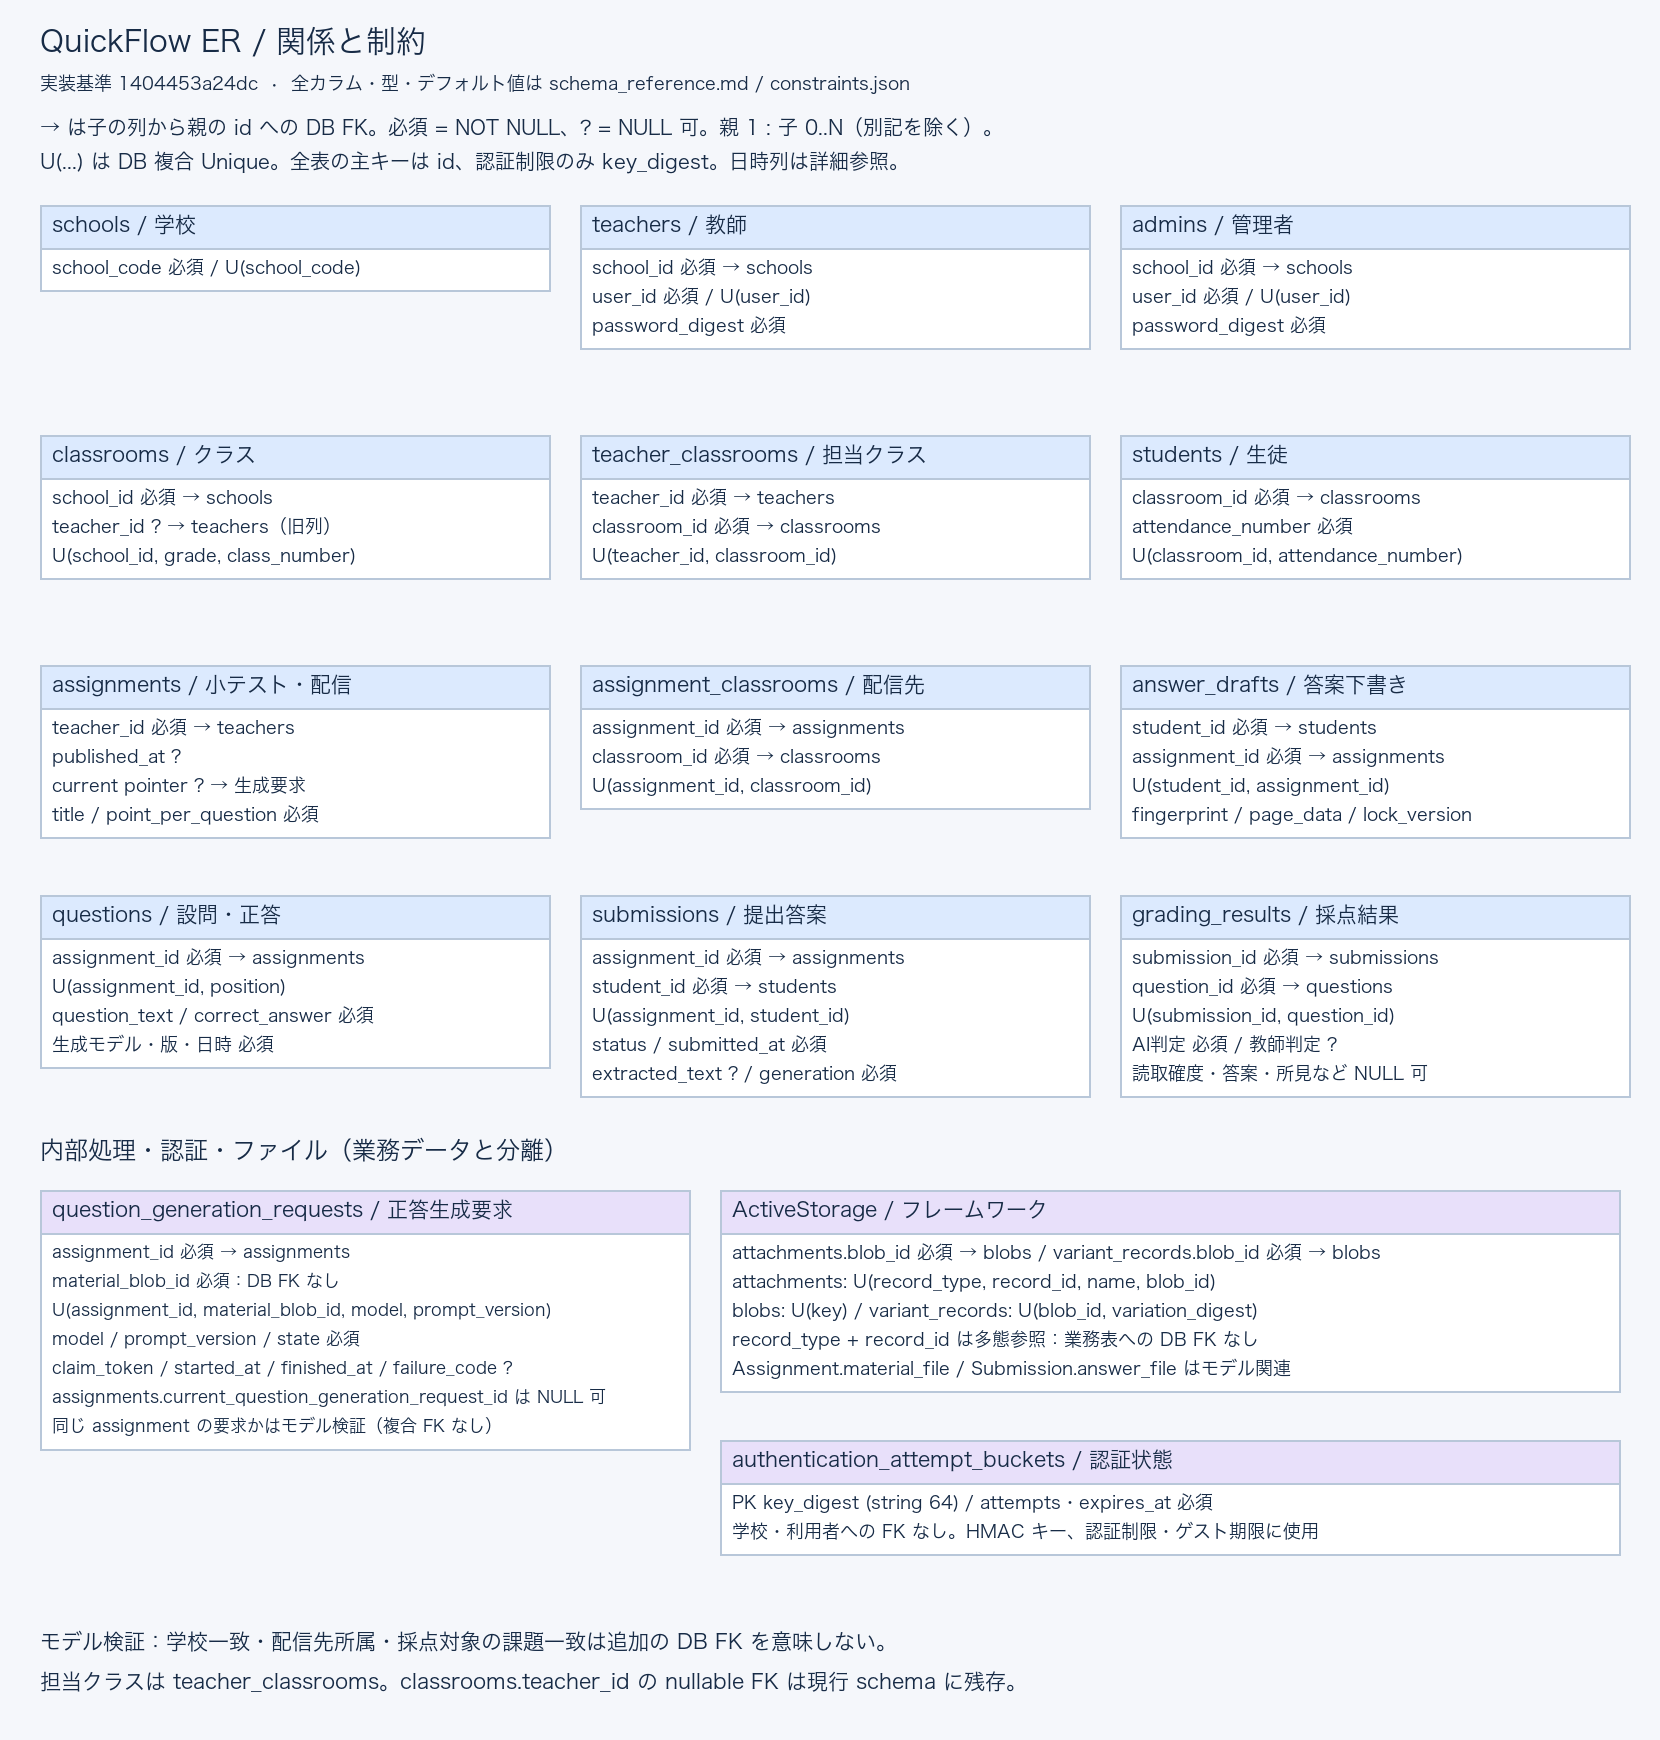
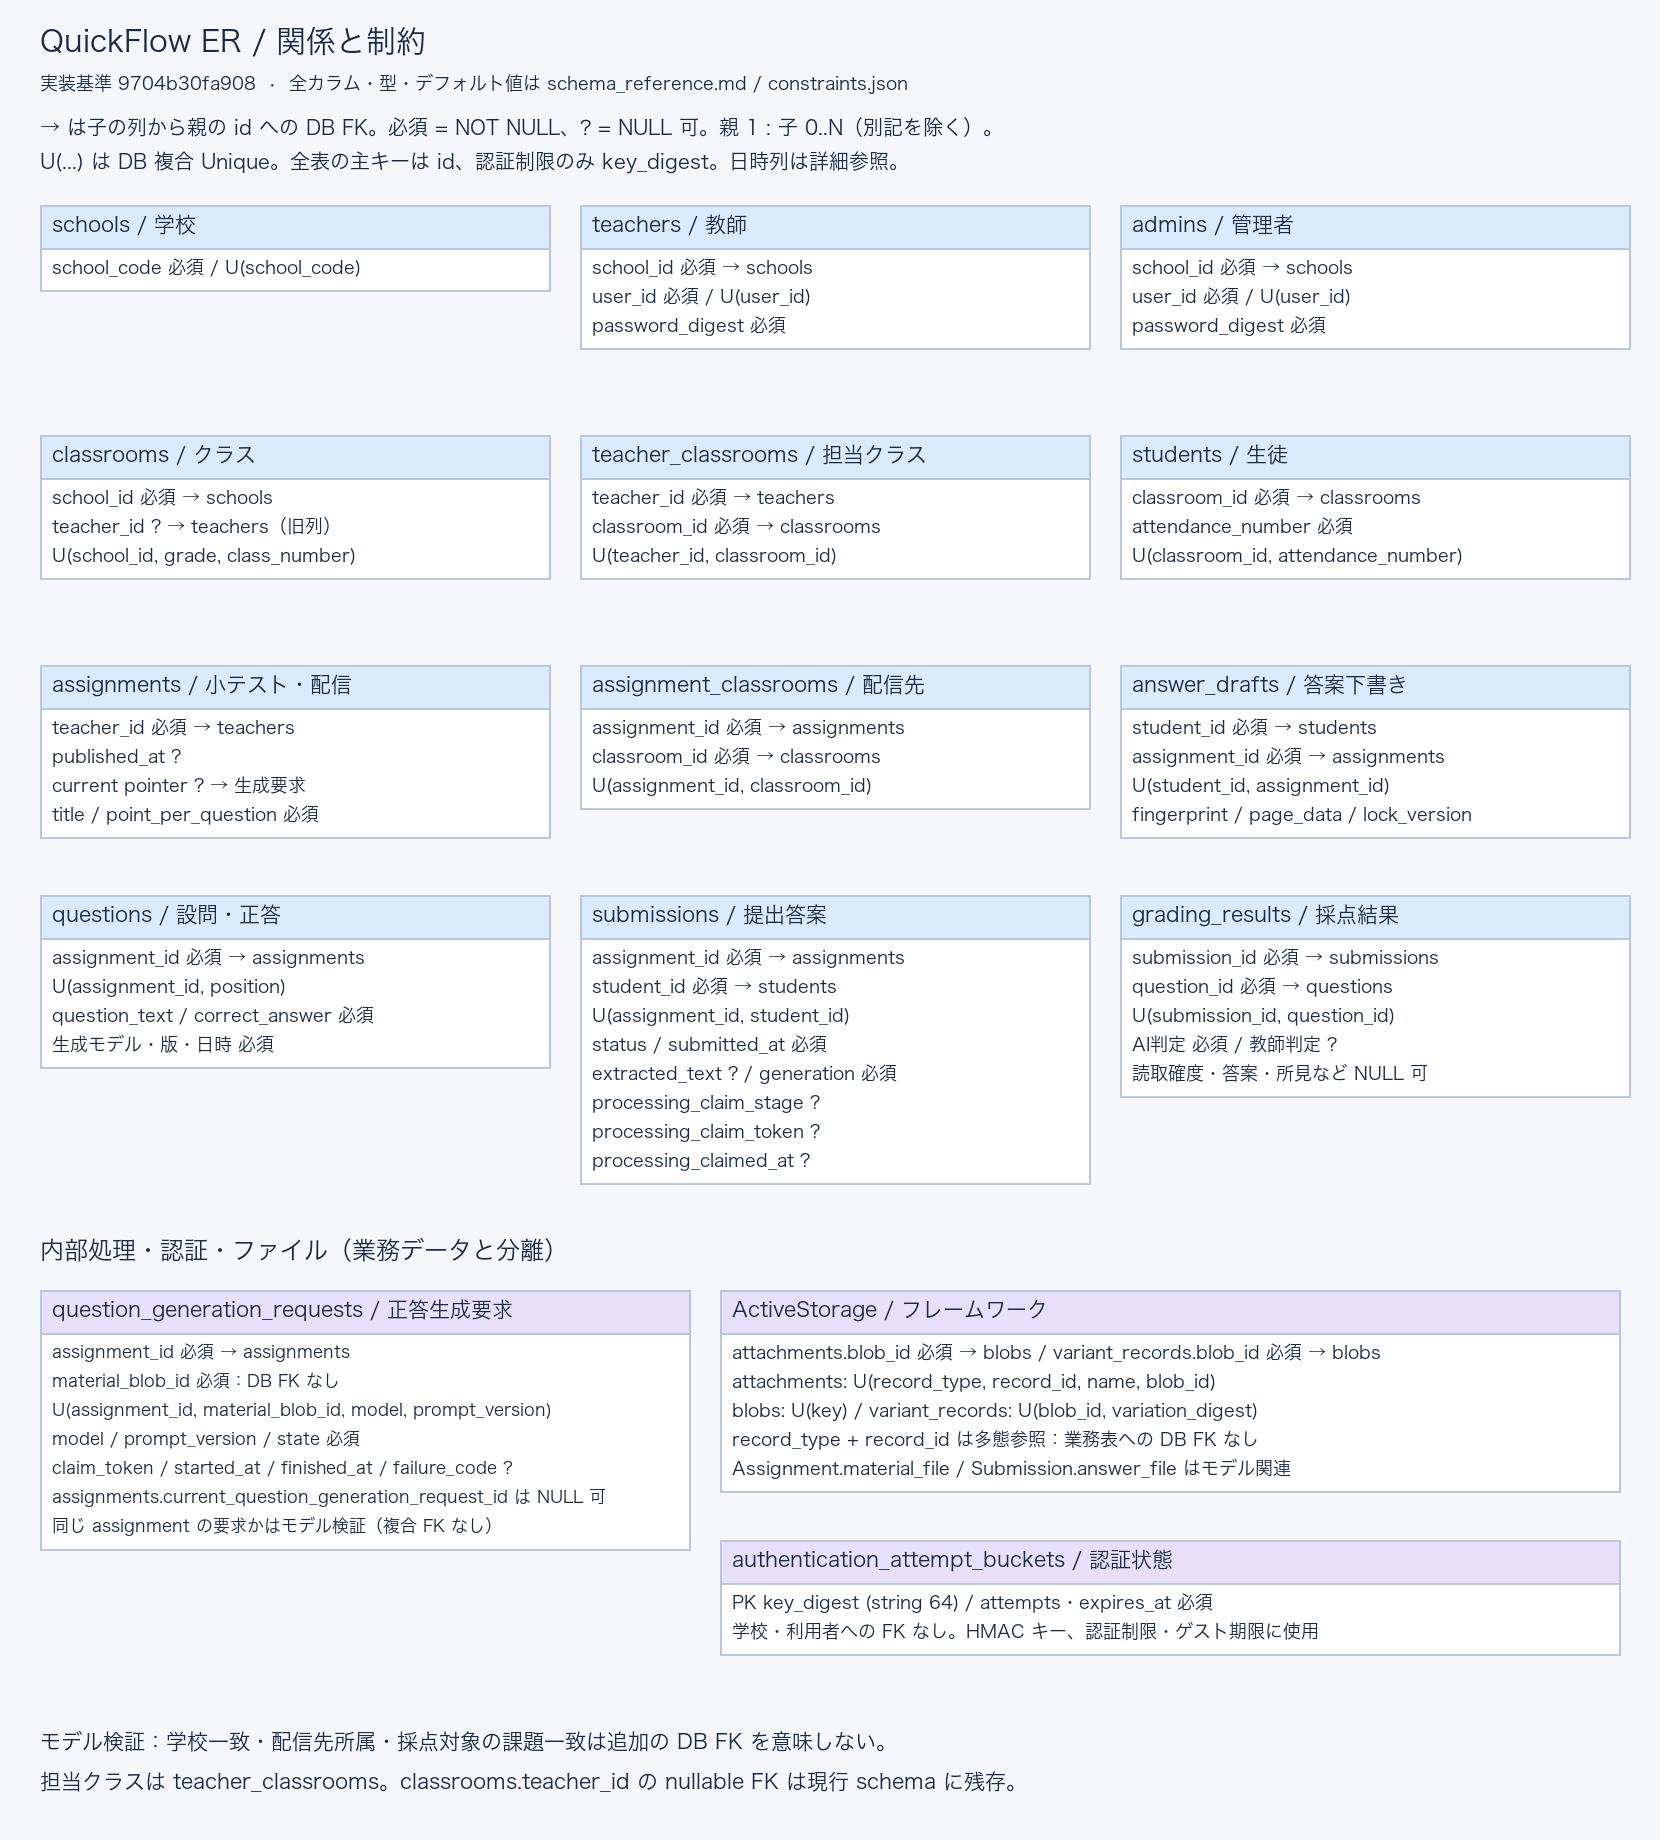
docs: synchronize diagrams with final merged claim schema

Changed region(s): [[0.0, 0.0, 0.9831, 0.6517], [0.0307, 0.6517, 0.9831, 0.9], [0.0307, 0.931, 0.6145, 0.9931]]

diff --git a/docs/design/build_diagrams.py b/docs/design/build_diagrams.py
@@ -12,7 +12,9 @@ from PIL import Image, ImageDraw, ImageFont
 ROOT = Path(__file__).resolve().parents[2]
 OUT = ROOT / 'docs/design'
 FONT = os.environ.get('DIAGRAM_FONT', '/System/Library/Fonts/ヒラギノ角ゴシック W3.ttc')
-BASELINE = '1404453a24dce4f3661a7c6aee7fc570e8f6b683'
+BASELINE = '9704b30fa90867a359d11a8ccf0cff78520aa5d2'
+# Routes and visible UX unchanged; preserve the independently reviewed screen bytes.
+SCREEN_BASELINE = '1404453a24dce4f3661a7c6aee7fc570e8f6b683'
 labels = {'schools':'学校','admins':'管理者','teachers':'教師','classrooms':'クラス','students':'生徒','teacher_classrooms':'担当クラス','assignments':'小テスト・配信','assignment_classrooms':'配信先','answer_drafts':'答案下書き','questions':'設問・正答','submissions':'提出答案','grading_results':'採点結果','question_generation_requests':'正答生成要求','authentication_attempt_buckets':'認証制限・ゲスト有効期限','active_storage_attachments':'添付','active_storage_blobs':'ファイル情報','active_storage_variant_records':'派生画像'}
 def digest(path): return hashlib.sha256((ROOT/path).read_bytes()).hexdigest()
 def schema():
@@ -55,39 +57,39 @@ class Canvas:
         self.im.save(ROOT/f'docs/{name}.png')
         (OUT/f'{name}.svg').write_text(f'<svg xmlns="http://www.w3.org/2000/svg" width="{self.w}" height="{self.h}" viewBox="0 0 {self.w} {self.h}" font-family="Hiragino Sans, Noto Sans CJK JP, sans-serif">'+''.join(self.svg)+'</svg>')
 def er(t):
-    c=Canvas(1660,1740,'QuickFlow ER / 関係と制約','実装基準 '+BASELINE[:12]+'  •  全カラム・型・デフォルト値は schema_reference.md / constraints.json')
+    c=Canvas(1660,1840,'QuickFlow ER / 関係と制約','実装基準 '+BASELINE[:12]+'  •  全カラム・型・デフォルト値は schema_reference.md / constraints.json')
     c.text(40,117,'→ は子の列から親の id への DB FK。必須 = NOT NULL、? = NULL 可。親 1 : 子 0..N（別記を除く）。',20)
     c.text(40,151,'U(...) は DB 複合 Unique。全表の主キーは id、認証制限のみ key_digest。日時列は詳細参照。',20)
     groups=[
       [('schools',['school_code 必須 / U(school_code)']),('teachers',['school_id 必須 → schools','user_id 必須 / U(user_id)','password_digest 必須']),('admins',['school_id 必須 → schools','user_id 必須 / U(user_id)','password_digest 必須'])],
       [('classrooms',['school_id 必須 → schools','teacher_id ? → teachers（旧列）','U(school_id, grade, class_number)']),('teacher_classrooms',['teacher_id 必須 → teachers','classroom_id 必須 → classrooms','U(teacher_id, classroom_id)']),('students',['classroom_id 必須 → classrooms','attendance_number 必須','U(classroom_id, attendance_number)'])],
       [('assignments',['teacher_id 必須 → teachers','published_at ?','current pointer ? → 生成要求','title / point_per_question 必須']),('assignment_classrooms',['assignment_id 必須 → assignments','classroom_id 必須 → classrooms','U(assignment_id, classroom_id)']),('answer_drafts',['student_id 必須 → students','assignment_id 必須 → assignments','U(student_id, assignment_id)','fingerprint / page_data / lock_version'])],
-      [('questions',['assignment_id 必須 → assignments','U(assignment_id, position)','question_text / correct_answer 必須','生成モデル・版・日時 必須']),('submissions',['assignment_id 必須 → assignments','student_id 必須 → students','U(assignment_id, student_id)','status / submitted_at 必須','extracted_text ? / generation 必須']),('grading_results',['submission_id 必須 → submissions','question_id 必須 → questions','U(submission_id, question_id)','AI判定 必須 / 教師判定 ?','読取確度・答案・所見など NULL 可'])]
+      [('questions',['assignment_id 必須 → assignments','U(assignment_id, position)','question_text / correct_answer 必須','生成モデル・版・日時 必須']),('submissions',['assignment_id 必須 → assignments','student_id 必須 → students','U(assignment_id, student_id)','status / submitted_at 必須','extracted_text ? / generation 必須','processing_claim_stage ?','processing_claim_token ?','processing_claimed_at ?']),('grading_results',['submission_id 必須 → submissions','question_id 必須 → questions','U(submission_id, question_id)','AI判定 必須 / 教師判定 ?','読取確度・答案・所見など NULL 可'])]
     ]
     y=205
     for row in groups:
         for i,(name,lines) in enumerate(row):c.card(40+i*540,y,510,name+' / '+labels[name],lines,size=18)
         y+=230
-    c.text(40,1137,'内部処理・認証・ファイル（業務データと分離）',24)
-    c.card(40,1190,650,'question_generation_requests / 正答生成要求',[
+    c.text(40,1237,'内部処理・認証・ファイル（業務データと分離）',24)
+    c.card(40,1290,650,'question_generation_requests / 正答生成要求',[
       'assignment_id 必須 → assignments','material_blob_id 必須：DB FK なし','U(assignment_id, material_blob_id, model, prompt_version)',
       'model / prompt_version / state 必須','claim_token / started_at / finished_at / failure_code ?',
       'assignments.current_question_generation_request_id は NULL 可',
       '同じ assignment の要求かはモデル検証（複合 FK なし）'], '#e8e0fa',17)
-    c.card(720,1190,900,'ActiveStorage / フレームワーク',[
+    c.card(720,1290,900,'ActiveStorage / フレームワーク',[
       'attachments.blob_id 必須 → blobs / variant_records.blob_id 必須 → blobs',
       'attachments: U(record_type, record_id, name, blob_id)',
       'blobs: U(key) / variant_records: U(blob_id, variation_digest)',
       'record_type + record_id は多態参照：業務表への DB FK なし',
       'Assignment.material_file / Submission.answer_file はモデル関連'], '#e8e0fa',18)
-    c.card(720,1440,900,'authentication_attempt_buckets / 認証状態',[
+    c.card(720,1540,900,'authentication_attempt_buckets / 認証状態',[
       'PK key_digest (string 64) / attempts・expires_at 必須',
       '学校・利用者への FK なし。HMAC キー、認証制限・ゲスト期限に使用'], '#e8e0fa',18)
-    c.text(40,1630,'モデル検証：学校一致・配信先所属・採点対象の課題一致は追加の DB FK を意味しない。',21)
-    c.text(40,1670,'担当クラスは teacher_classrooms。classrooms.teacher_id の nullable FK は現行 schema に残存。',21)
+    c.text(40,1730,'モデル検証：学校一致・配信先所属・採点対象の課題一致は追加の DB FK を意味しない。',21)
+    c.text(40,1770,'担当クラスは teacher_classrooms。classrooms.teacher_id の nullable FK は現行 schema に残存。',21)
     c.save('er_diagram')
 def screens():
-    c=Canvas(1660,1800,'QuickFlow 画面遷移 / 実装された操作','実装基準 '+BASELINE[:12]+'  •  矢印は操作または応答。箱内に実ルート／状態を併記。詳細・認可は README.md。')
+    c=Canvas(1660,1800,'QuickFlow 画面遷移 / 実装された操作','実装基準 '+SCREEN_BASELINE[:12]+'  •  矢印は操作または応答。箱内に実ルート／状態を併記。詳細・認可は README.md。')
     c.card(40,115,1580,'公開トップ GET /', ['教師 /login・生徒 /student/login・管理者 /admin/login は別の認証入口。公開 signup / rails_admin はない。'],size=20)
     columns=[
       ('教師',40,'#dceafe',[
@@ -132,8 +134,22 @@ def screens():
     c.text(40,1710,'手書きの競合・教材変更・認証切れ・保存失敗は状態別に案内。読取を新たに再実行する UI はない。',21)
     c.text(40,1750,'PDF内容不正は入力画面で案内。確認処理の利用不可は503、手書きと下書きを保持。',21)
     c.save('screen_transition')
+def inventory(t):
+    models = {}
+    for path in sorted((ROOT/'app/models').glob('*.rb')):
+        match = re.search(r'^class (\w+) < ApplicationRecord', path.read_text(), re.M)
+        if match: models[match.group(1)] = str(path.relative_to(ROOT))
+    stores = {}
+    for name in ('cache', 'queue', 'cable'):
+        path = ROOT/f'db/{name}_schema.rb'
+        stores[name] = re.findall(r'create_table "([^"]+)"', path.read_text())
+    return {'primary_tables':len(t), 'primary_columns_including_primary_keys':sum(len(v['columns']) for v in t.values()),
+        'primary_active_storage_tables':sum(n.startswith('active_storage_') for n in t),
+        'primary_application_tables':sum(not n.startswith('active_storage_') for n in t),
+        'concrete_application_record_models':len(models), 'model_files':models,
+        'framework_store_tables':stores, 'framework_store_table_counts':{k:len(v) for k,v in stores.items()}}
 def details(t):
-    data={'baseline_commit':BASELINE,'schema_sha256':digest('db/schema.rb'),'routes_sha256':digest('config/routes.rb'),'tables':t,'model_only_constraints':['same school for teacher_classrooms / assignment_classrooms','submission assignment distributed to student classroom','grading_result question belongs to submission assignment','Assignment current request belongs to same assignment'],'not_database_foreign_keys':['question_generation_requests.material_blob_id','active_storage_attachments.record_type + record_id'],'issue46_refresh':'pending: inspect merged main before final acceptance; no pending Submission claim attributes represented'}
+    data={'baseline_commit':BASELINE,'schema_sha256':digest('db/schema.rb'),'routes_sha256':digest('config/routes.rb'),'schema_version':re.search(r'define\(version: ([0-9_]+)\)', (ROOT/'db/schema.rb').read_text()).group(1),'inventory':inventory(t),'screen_baseline_commit':SCREEN_BASELINE,'tables':t,'model_only_constraints':['same school for teacher_classrooms / assignment_classrooms','submission assignment distributed to student classroom','grading_result question belongs to submission assignment','Assignment current request belongs to same assignment'],'not_database_foreign_keys':['question_generation_requests.material_blob_id','active_storage_attachments.record_type + record_id'],'issue46_refresh':'verified merged schema: processing_claim_stage/string, processing_claim_token/string, processing_claimed_at/datetime; all nullable, no default/index/FK added; internal protocol only'}
     (OUT/'constraints.json').write_text(json.dumps(data,ensure_ascii=False,indent=2)+'\n')
     lines=['# 現行スキーマの全属性と制約','',f'基準 commit: `{BASELINE}`。`db/schema.rb` のみから生成。モデル検証とは区別する。', '', 'NULL 可は明示。`options` は型の長さ・default 等を原文で保持。業務表と ActiveStorage は同一 DB の定義。']
     for name,v in t.items():

diff --git a/docs/design/verify_diagrams.py b/docs/design/verify_diagrams.py
@@ -20,7 +20,14 @@ assert data['schema_sha256'] == build.digest('db/schema.rb')
 assert data['routes_sha256'] == build.digest('config/routes.rb')
 assert data['tables'] == build.schema(), 'Schema constraints have drifted'
 tables = data['tables']
-assert len(tables) == 17
+assert data['inventory'] == build.inventory(tables)
+assert data['screen_baseline_commit'] == build.SCREEN_BASELINE
+claim_columns = {c['name']:c for c in tables['submissions']['columns']}
+for name, typ in [('processing_claim_stage','string'),('processing_claim_token','string'),('processing_claimed_at','datetime')]:
+    assert claim_columns[name]['type'] == typ and claim_columns[name]['nullable']
+    assert not claim_columns[name]['options']
+    assert not any(f['column']==name for f in tables['submissions']['foreign_keys'])
+    assert not any(name in u for u in tables['submissions']['unique_indexes'])
 assert tables['classrooms']['columns'][2]['name'] == 'teacher_id'
 assert tables['classrooms']['columns'][2]['nullable']
 assert not any(f['column']=='material_blob_id' for f in tables['question_generation_requests']['foreign_keys'])
@@ -48,4 +55,4 @@ for name in ['er_diagram','screen_transition']:
     with Image.open(root/f'docs/{name}.png') as im:
         assert im.size == (int(svg.attrib['width']),int(svg.attrib['height']))
         im.verify()
-print(json.dumps({'result':'passed','baseline_commit':build.BASELINE,'tables':len(tables),'foreign_keys':sum(len(t['foreign_keys']) for t in tables.values()),'unique_indexes':sum(len(t['unique_indexes']) for t in tables.values()),'artifact_sha256':before},indent=2))
+print(json.dumps({'result':'passed','baseline_commit':build.BASELINE,'schema_version':data['schema_version'],'inventory':data['inventory'],'tables':len(tables),'foreign_keys':sum(len(t['foreign_keys']) for t in tables.values()),'unique_indexes':sum(len(t['unique_indexes']) for t in tables.values()),'artifact_sha256':before},indent=2))

diff --git a/docs/design/schema_reference.md b/docs/design/schema_reference.md
@@ -1,6 +1,6 @@
 # 現行スキーマの全属性と制約
 
-基準 commit: `1404453a24dce4f3661a7c6aee7fc570e8f6b683`。`db/schema.rb` のみから生成。モデル検証とは区別する。
+基準 commit: `9704b30fa90867a359d11a8ccf0cff78520aa5d2`。`db/schema.rb` のみから生成。モデル検証とは区別する。
 
 NULL 可は明示。`options` は型の長さ・default 等を原文で保持。業務表と ActiveStorage は同一 DB の定義。
 
@@ -248,6 +248,9 @@ DB FK: classroom_id → classrooms.id
 | updated_at | datetime | 不可 | null: false |
 | extracted_text | text | 可 |  |
 | processing_generation | integer | 不可 | default: 0, null: false |
+| processing_claim_stage | string | 可 |  |
+| processing_claim_token | string | 可 |  |
+| processing_claimed_at | datetime | 可 |  |
 
 Unique: assignment_id + student_id
 
